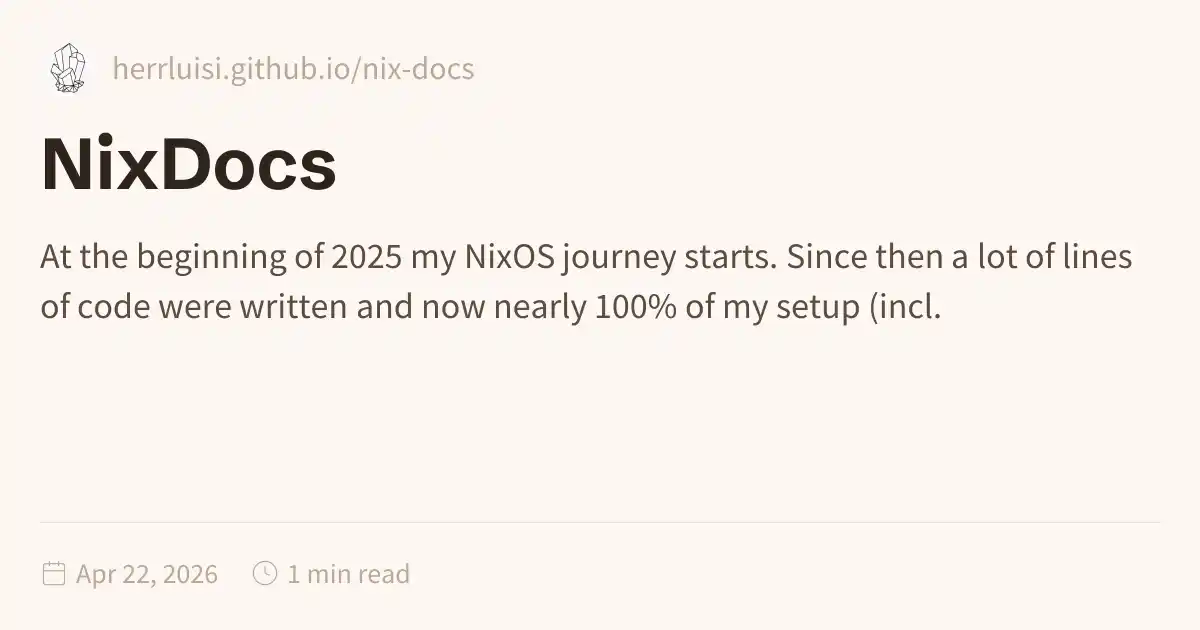
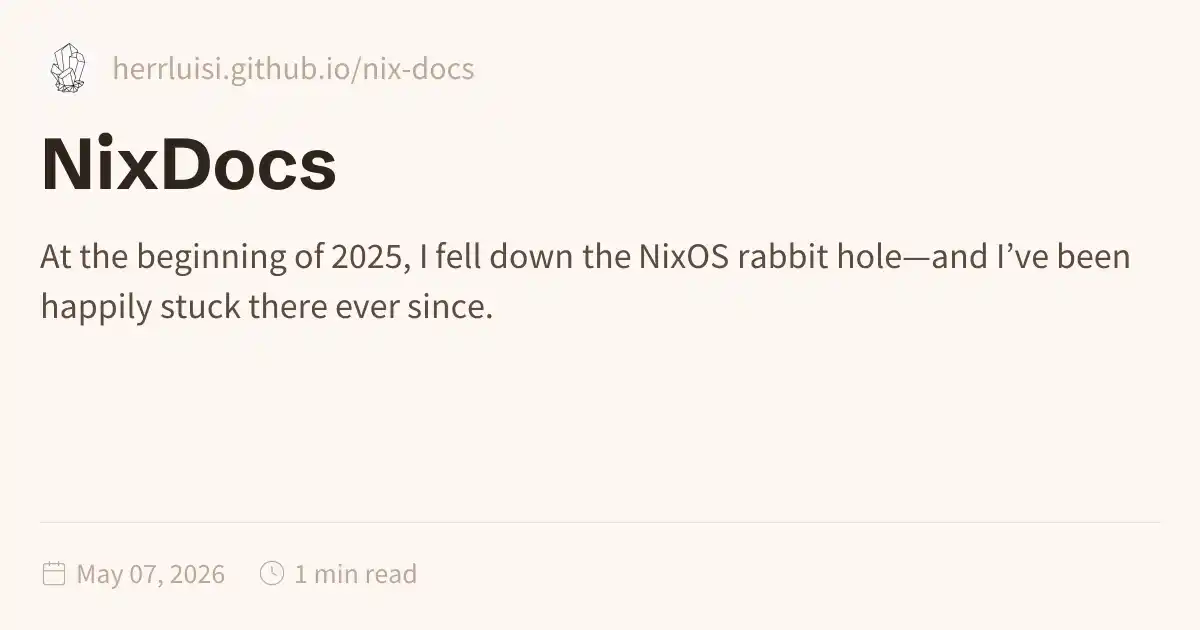
Deploying to gh-pages from @ herrluisi/nix-docs@3caddf4187e642623aaa40cb8631e5186cc47b80 🚀

Changed region(s): [[0.0308, 0.3921, 0.9558, 0.5127], [0.0617, 0.8746, 0.185, 0.9349], [0.2158, 0.8746, 0.37, 0.9349]]

diff --git a/index.html b/index.html
@@ -1,5 +1,5 @@
 <!DOCTYPE html>
-<html lang="en" dir="ltr"><head><title>NixDocs</title><meta charset="utf-8"/><link rel="preconnect" href="https://fonts.googleapis.com"/><link rel="preconnect" href="https://fonts.gstatic.com"/><link rel="stylesheet" href="https://fonts.googleapis.com/css2?family=Schibsted Grotesk:wght@400;700&amp;family=Source Sans Pro:ital,wght@0,400;0,600;1,400;1,600&amp;family=IBM Plex Mono:wght@400;600&amp;display=swap"/><link rel="preconnect" href="https://cdnjs.cloudflare.com" crossorigin="anonymous"/><meta name="viewport" content="width=device-width, initial-scale=1.0"/><meta name="og:site_name" content="NixDocs"/><meta property="og:title" content="NixDocs"/><meta property="og:type" content="website"/><meta name="twitter:card" content="summary_large_image"/><meta name="twitter:title" content="NixDocs"/><meta name="twitter:description" content="At the beginning of 2025 my NixOS journey starts. Since then a lot of lines of code were written and now nearly 100% of my setup (incl."/><meta property="og:description" content="At the beginning of 2025 my NixOS journey starts. Since then a lot of lines of code were written and now nearly 100% of my setup (incl."/><meta property="og:image:alt" content="At the beginning of 2025 my NixOS journey starts. Since then a lot of lines of code were written and now nearly 100% of my setup (incl."/><meta property="twitter:domain" content="herrluisi.github.io/nix-docs"/><meta property="og:url" content="https://herrluisi.github.io/nix-docs/index"/><meta property="twitter:url" content="https://herrluisi.github.io/nix-docs/index"/><link rel="icon" href="./static/icon.png"/><meta name="description" content="At the beginning of 2025 my NixOS journey starts. Since then a lot of lines of code were written and now nearly 100% of my setup (incl."/><meta name="generator" content="Quartz"/><link href="./index.css" rel="stylesheet" type="text/css" data-persist="true"/><style>.expand-button {
+<html lang="en" dir="ltr"><head><title>NixDocs</title><meta charset="utf-8"/><link rel="preconnect" href="https://fonts.googleapis.com"/><link rel="preconnect" href="https://fonts.gstatic.com"/><link rel="stylesheet" href="https://fonts.googleapis.com/css2?family=Schibsted Grotesk:wght@400;700&amp;family=Source Sans Pro:ital,wght@0,400;0,600;1,400;1,600&amp;family=IBM Plex Mono:wght@400;600&amp;display=swap"/><link rel="preconnect" href="https://cdnjs.cloudflare.com" crossorigin="anonymous"/><meta name="viewport" content="width=device-width, initial-scale=1.0"/><meta name="og:site_name" content="NixDocs"/><meta property="og:title" content="NixDocs"/><meta property="og:type" content="website"/><meta name="twitter:card" content="summary_large_image"/><meta name="twitter:title" content="NixDocs"/><meta name="twitter:description" content="At the beginning of 2025, I fell down the NixOS rabbit hole—and I’ve been happily stuck there ever since."/><meta property="og:description" content="At the beginning of 2025, I fell down the NixOS rabbit hole—and I’ve been happily stuck there ever since."/><meta property="og:image:alt" content="At the beginning of 2025, I fell down the NixOS rabbit hole—and I’ve been happily stuck there ever since."/><meta property="twitter:domain" content="herrluisi.github.io/nix-docs"/><meta property="og:url" content="https://herrluisi.github.io/nix-docs/index"/><meta property="twitter:url" content="https://herrluisi.github.io/nix-docs/index"/><link rel="icon" href="./static/icon.png"/><meta name="description" content="At the beginning of 2025, I fell down the NixOS rabbit hole—and I’ve been happily stuck there ever since."/><meta name="generator" content="Quartz"/><link href="./index.css" rel="stylesheet" type="text/css" data-persist="true"/><style>.expand-button {
   position: absolute;
   display: flex;
   float: right;
@@ -115,10 +115,10 @@ pre:hover > .expand-button {
   padding: 0 12px;
   font-size: 14px;
 }
[1 lines of base64/hex data omitted]
-<p>The goal of this documentation is that I know in a few years (or weeks because of my goldfish brain) what I did here :D</p>
-<p>If you have any questions or suggestions, don’t hesitate to reach out (you find contact options on my GitHub page).</p>
-<p>To start your journey through this documentation you can find the start in the <a href="./introduction" class="internal alias" data-slug="introduction">introduction</a> Chapter.</p></article><hr/><div class="page-footer"></div></div><div class="right sidebar"><div class="graph"><h3>Graph View</h3><div class="graph-outer"><div class="graph-container" data-cfg="{&quot;drag&quot;:true,&quot;zoom&quot;:true,&quot;depth&quot;:1,&quot;scale&quot;:1.1,&quot;repelForce&quot;:0.5,&quot;centerForce&quot;:0.3,&quot;linkDistance&quot;:30,&quot;fontSize&quot;:0.6,&quot;opacityScale&quot;:1,&quot;showTags&quot;:true,&quot;removeTags&quot;:[],&quot;focusOnHover&quot;:false,&quot;enableRadial&quot;:false}"></div><button class="global-graph-icon" aria-label="Global Graph"><svg version="1.1" xmlns="http://www.w3.org/2000/svg" xmlns:xlink="http://www.w3.org/1999/xlink" x="0px" y="0px" viewBox="0 0 55 55" fill="currentColor" xml:space="preserve"><path d="M49,0c-3.309,0-6,2.691-6,6c0,1.035,0.263,2.009,0.726,2.86l-9.829,9.829C32.542,17.634,30.846,17,29,17
[1 lines of base64/hex data omitted]
+<p>This documentation exists mainly for future me—whether that’s in a few years or in two weeks when I’ve already forgotten everything. Goldfish brain strikes again.</p>
+<p>If you stumble across this and have questions, ideas, or “why would you do it like that?” moments, feel free to reach out. You’ll find ways to contact me on my GitHub page (you can find the GitHub link in the footer).</p>
+<p>Ready to start the journey in the documentation which may makes sense? Start with the <a href="./introduction" class="internal alias" data-slug="introduction">introduction</a> and see where it takes you.</p></article><hr/><div class="page-footer"></div></div><div class="right sidebar"><div class="graph"><h3>Graph View</h3><div class="graph-outer"><div class="graph-container" data-cfg="{&quot;drag&quot;:true,&quot;zoom&quot;:true,&quot;depth&quot;:1,&quot;scale&quot;:1.1,&quot;repelForce&quot;:0.5,&quot;centerForce&quot;:0.3,&quot;linkDistance&quot;:30,&quot;fontSize&quot;:0.6,&quot;opacityScale&quot;:1,&quot;showTags&quot;:true,&quot;removeTags&quot;:[],&quot;focusOnHover&quot;:false,&quot;enableRadial&quot;:false}"></div><button class="global-graph-icon" aria-label="Global Graph"><svg version="1.1" xmlns="http://www.w3.org/2000/svg" xmlns:xlink="http://www.w3.org/1999/xlink" x="0px" y="0px" viewBox="0 0 55 55" fill="currentColor" xml:space="preserve"><path d="M49,0c-3.309,0-6,2.691-6,6c0,1.035,0.263,2.009,0.726,2.86l-9.829,9.829C32.542,17.634,30.846,17,29,17
                 s-3.542,0.634-4.898,1.688l-7.669-7.669C16.785,10.424,17,9.74,17,9c0-2.206-1.794-4-4-4S9,6.794,9,9s1.794,4,4,4
                 c0.74,0,1.424-0.215,2.019-0.567l7.669,7.669C21.634,21.458,21,23.154,21,25s0.634,3.542,1.688,4.897L10.024,42.562
                 C8.958,41.595,7.549,41,6,41c-3.309,0-6,2.691-6,6s2.691,6,6,6s6-2.691,6-6c0-1.035-0.263-2.009-0.726-2.86l12.829-12.829
